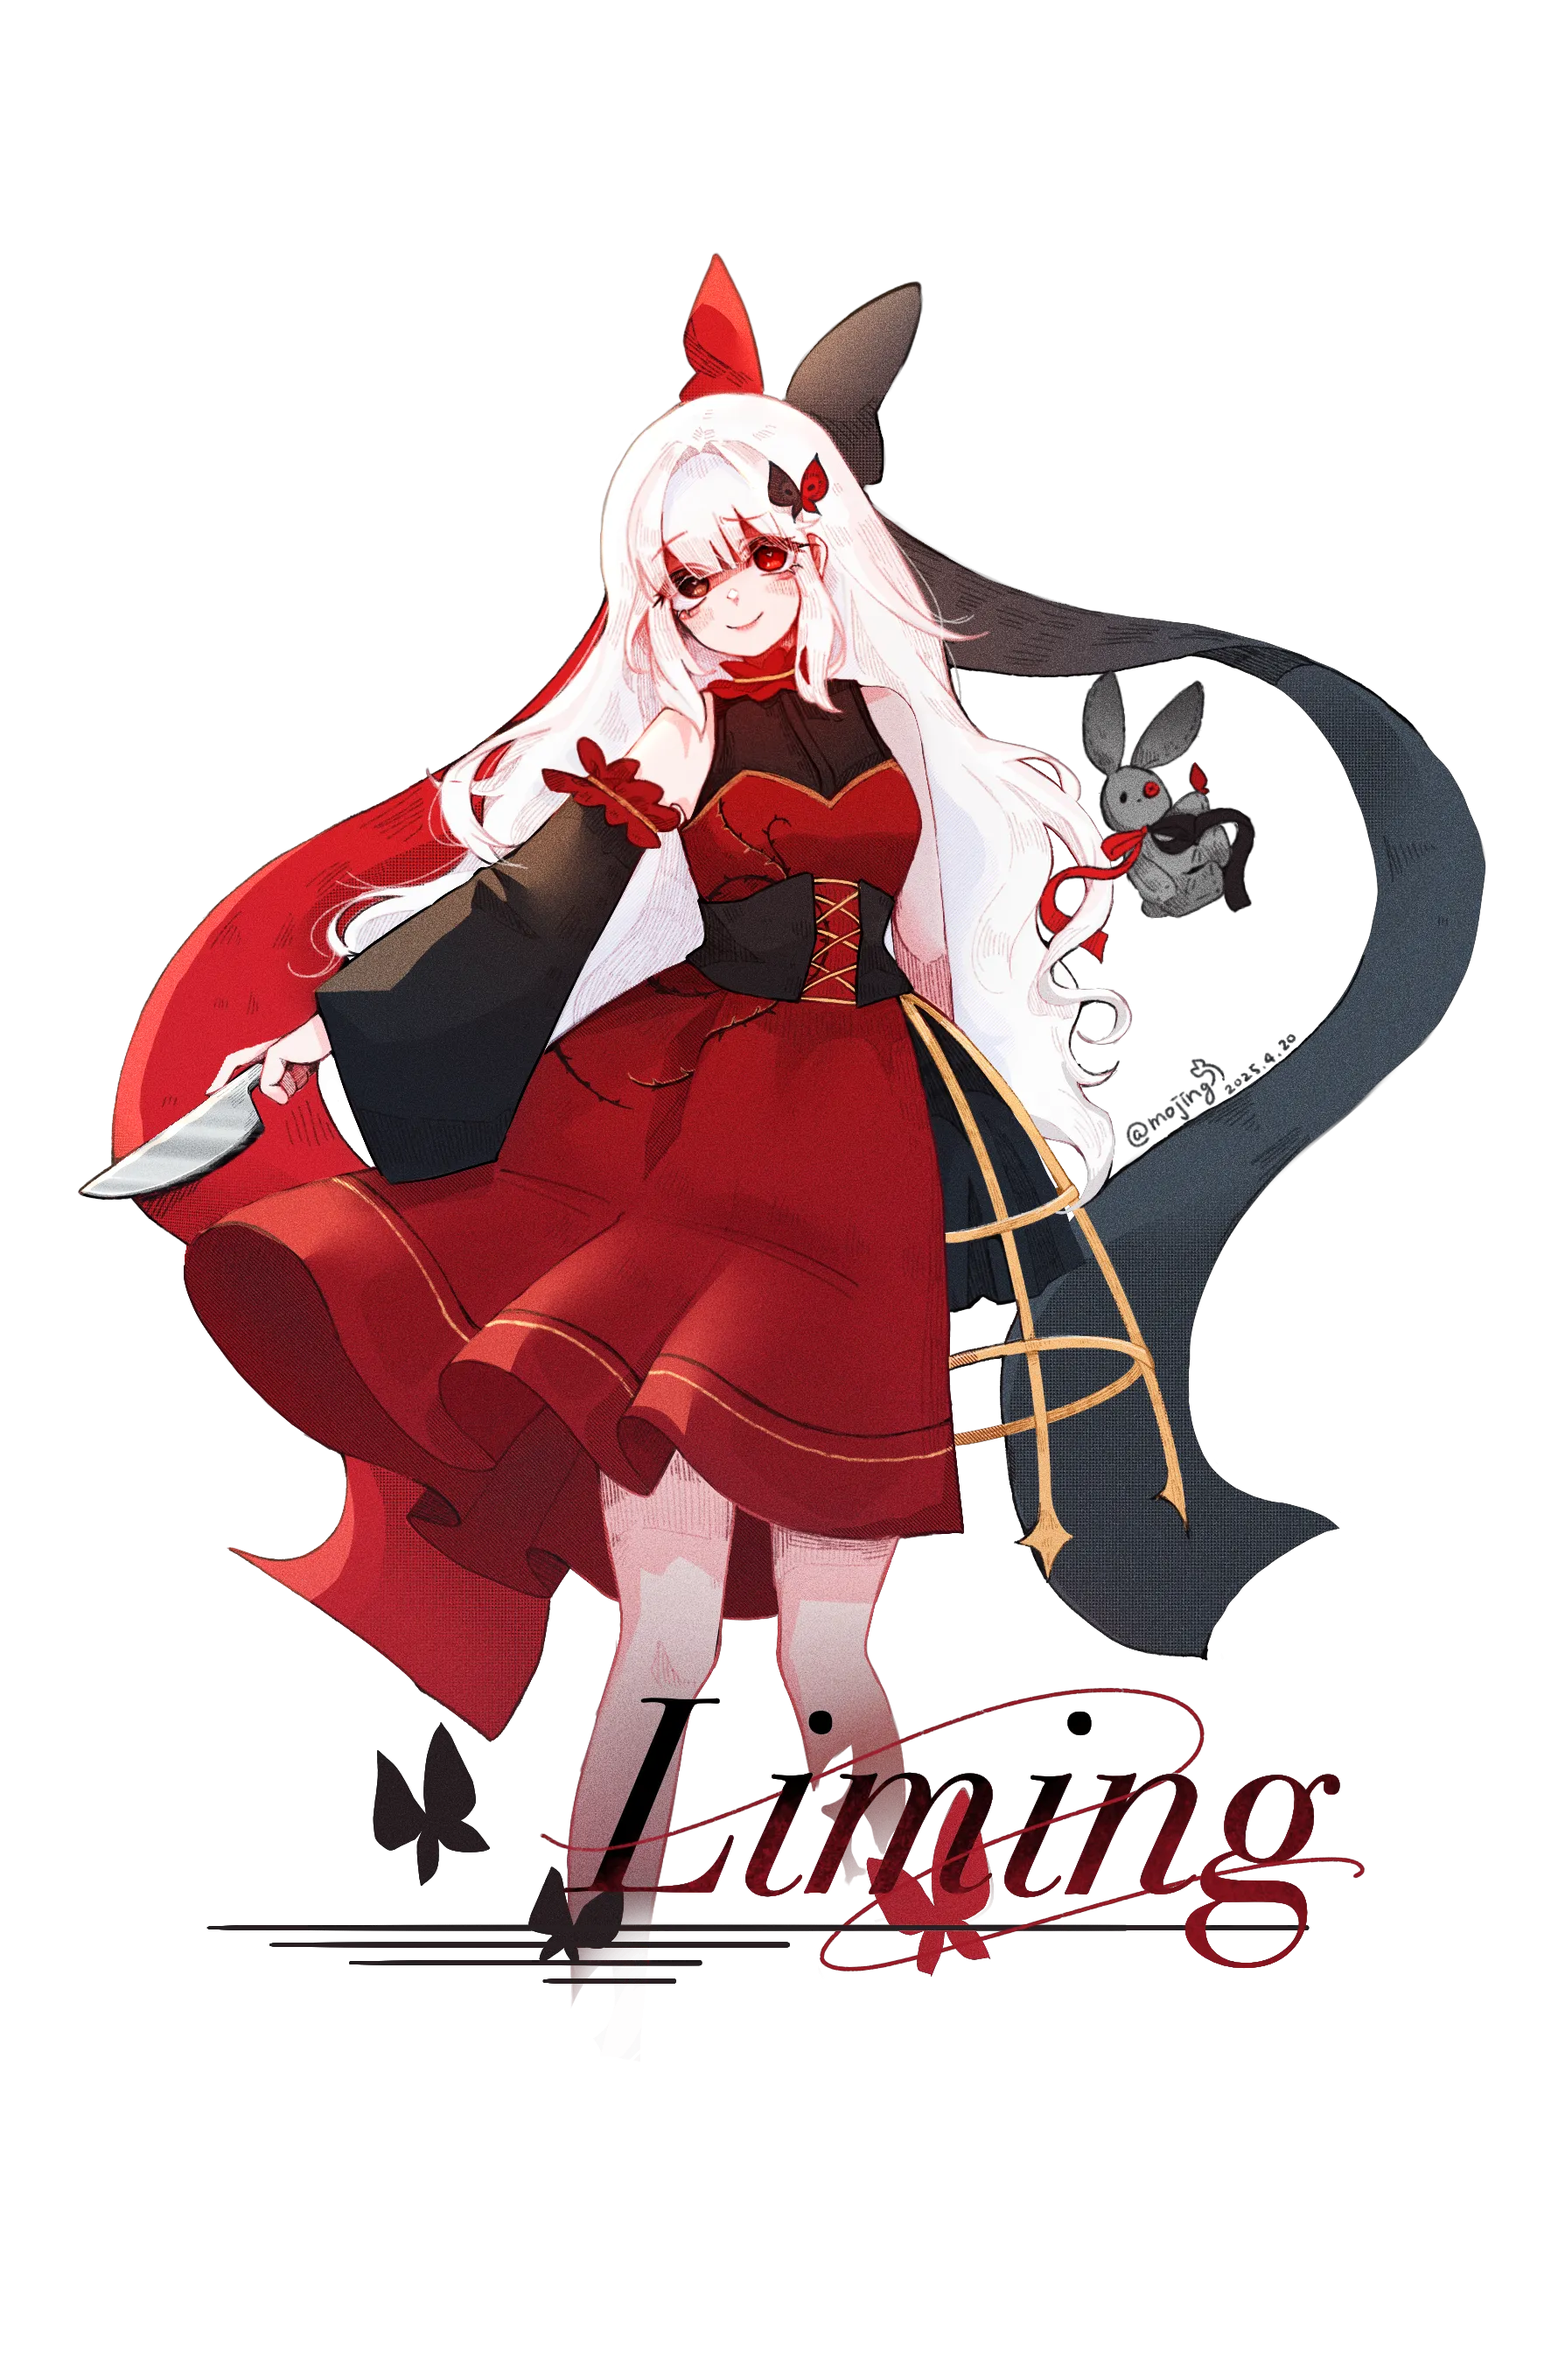
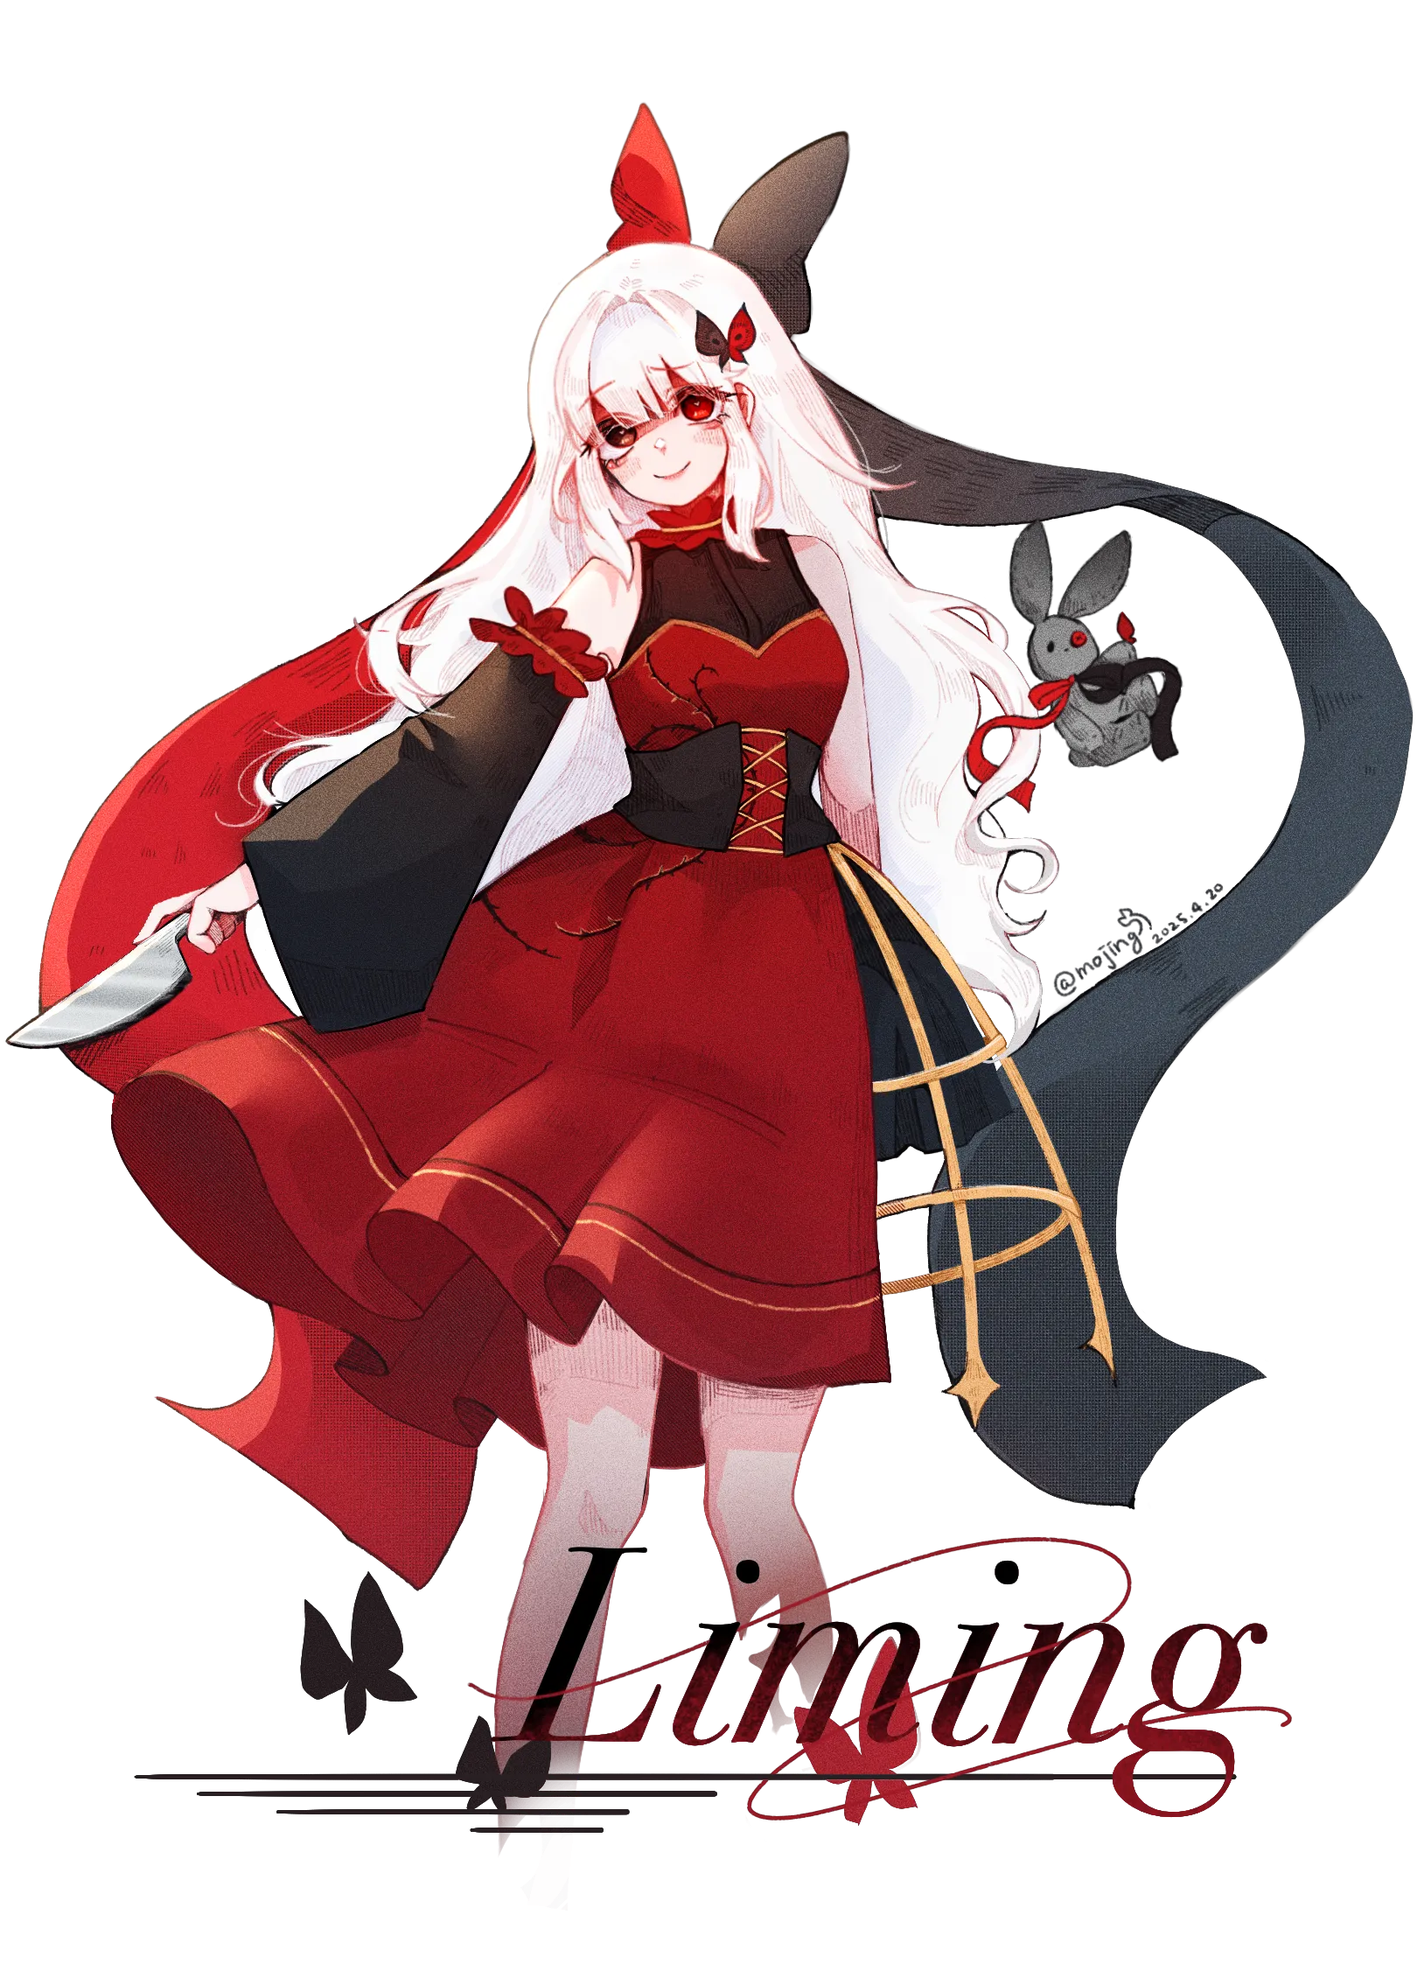
比例調整

diff --git a/projects.html b/projects.html
@@ -94,27 +94,28 @@
             <div class="projects">
                 <div class="project fade-in">
                     <img src="ocPIC/liming-hero.jpg" alt="黎暝" class="portrait">
-                    <h3>繪圖作品</h3>
-                    <p>收錄個人繪製插畫。</p>
+                    <h3>角色設計</h3>
+                    <p>收錄個人角色設計。</p>
                     <p><span class="tag">#oc</span></p>
-                    <a href="PJ-Gallery.html">前往畫廊</a>
-                </div>
-
-                <div class="project fade-in">
-                    <img src="ocPIC/licheng-hero.jpg" alt="黎澄" class="portrait">
-                    <h3>原創漫畫-澄月</h3>
-                    <p>2026年繪製的原創漫畫。</p>
-                    <p><span class="tag">#oc</span></p>
-                    <a href="PJ-Comics-Licheng.html">查看漫畫</a>
+                    <a href="PJ-Gallery copy.html">前往畫廊</a>
                 </div>
 
                 <div class="project fade-in">
                     <img src="ocPIC/yisu-hero.jpg" alt="伊蘇" class="portrait">
-                    <h3>原創-伊蘇Yisu</h3>
-                    <p>2020年創造的原創角色。</p>
-                    <p><span class="tag">#oc</span></p>
-                    <a href="PJ-Gallery copy.html">相關設定</a>
+                    <h3>插畫</h3>
+                    <p>收錄個人插畫作品。</p>
+                    <p><span class="tag">#插畫</span></p>
+                    <a href="PJ-Gallery.html">前往畫廊</a>
                 </div>
+
+                <div class="project fade-in">
+                    <img src="images/Comics/漫畫封面.webp" alt="黎澄" class="portrait">
+                    <h3>原創漫畫-澄月</h3>
+                    <p>2026年繪製的原創漫畫。</p>
+                    <p><span class="tag">#創作</span></p>
+                    <a href="PJ-Comics-Licheng.html">查看漫畫</a>
+                </div>
+
                 <div class="project fade-in">
                     <img src="images/IMG_4370.PNG" alt="創作圖1" class="portrait">
                     <h3>漫畫 -「非自述。」</h3>

diff --git a/css/project-gallery.css b/css/project-gallery.css
@@ -356,10 +356,12 @@ body {
 
 .spread-hero .hero-sprite {
     position: absolute;
-    bottom: -60%;
+    bottom: -30%;
     left: 10%;
-    width: 60%;
-    height: auto;
+    height: 500px;
+    width: auto;
+    max-width: none; 
+    object-fit: contain; 
     display: block;
     z-index: 3;
     filter: drop-shadow(8px 10px 15px rgba(0, 0, 0, 0.25));
@@ -382,30 +384,36 @@ body {
         border-top: 4px solid var(--spread-line, var(--accent-color));
     }
 
-    /* 針對 21/9 比例與懸空立繪的容器修正 */
+    /* 容器空間修正 */
     .spread-hero {
-        /* 強制推開下方文字區塊，避免被突出的立繪遮擋。若文字仍被遮擋，請加大此數值 */
-        margin-top: 40px;
-        margin-bottom: 25%; 
+        margin-top: 50px;
+        margin-bottom: 200px; 
     }
 
     .spread-hero .hero-sprite {
-        width: 75%;
+        /* 核心修正：雙向極限約束 */
+        width: auto;
+        height: auto;
+        max-width: 80%;       /* 寬圖防護：最大不超過螢幕寬 90% */
+        max-height: 450px;    /* 窄圖防護：最大高度鎖死，杜絕無限放大 */
+        object-fit: contain;
+        
         left: 50%;
         transform: translateX(-50%);
-        /* 呼應電腦版的懸空比例，加深突出程度 */
-        bottom: -100%; 
+        /* 配合新的高度上限，調整下沉深度 */
+        bottom: -220px; 
     }
 }
 
 /* 針對更小螢幕的手機追加修正 */
 @media screen and (max-width: 480px) {
     .spread-hero {
-        margin-bottom: 35%; /* 螢幕越窄，立繪佔據的絕對高度比例越大，需要更多底邊距 */
+        margin-bottom: 100px; 
     }
     .spread-hero .hero-sprite {
-        width: 85%; /* 在極小螢幕放大角色佔比 */
-        bottom: -65%;
+        max-width: 95%; 
+        max-height: 380px; /* 在小手機上進一步壓低極限高度 */
+        bottom: -60px;
     }
 }
 
